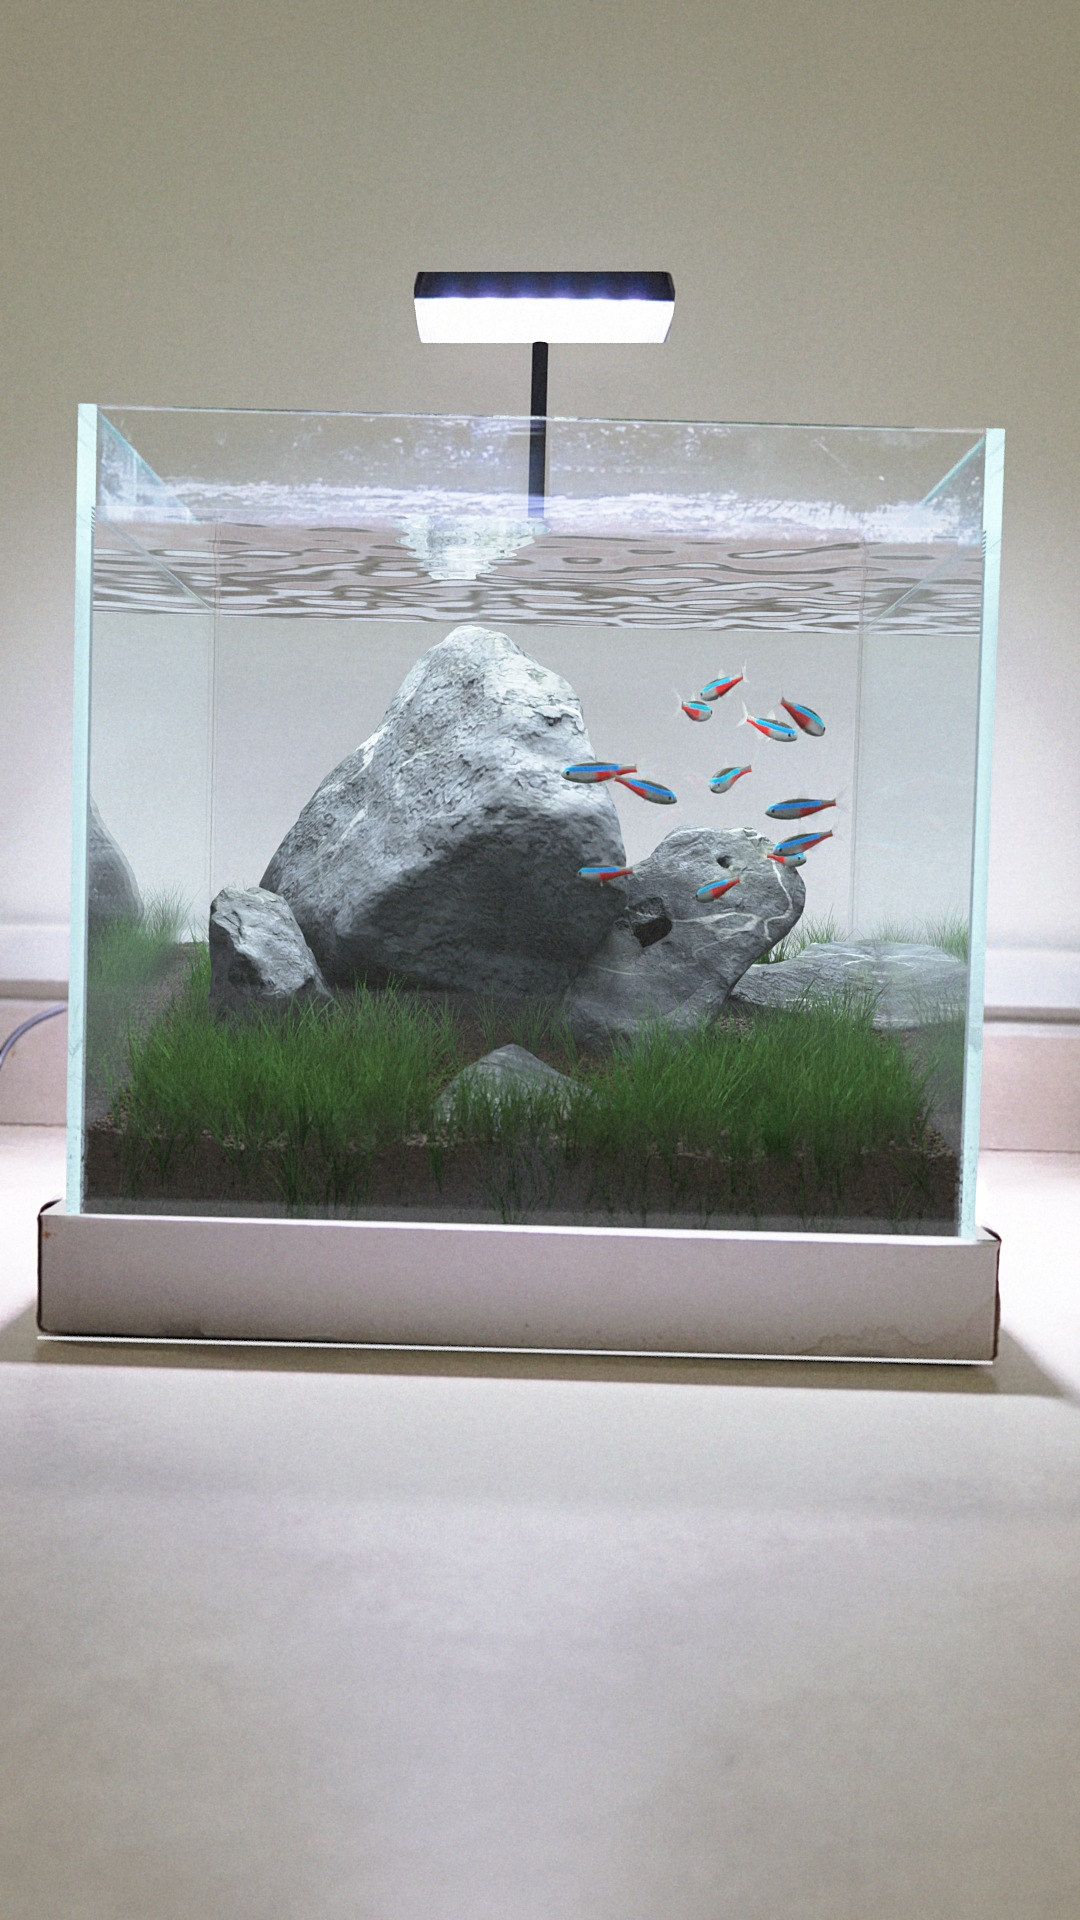
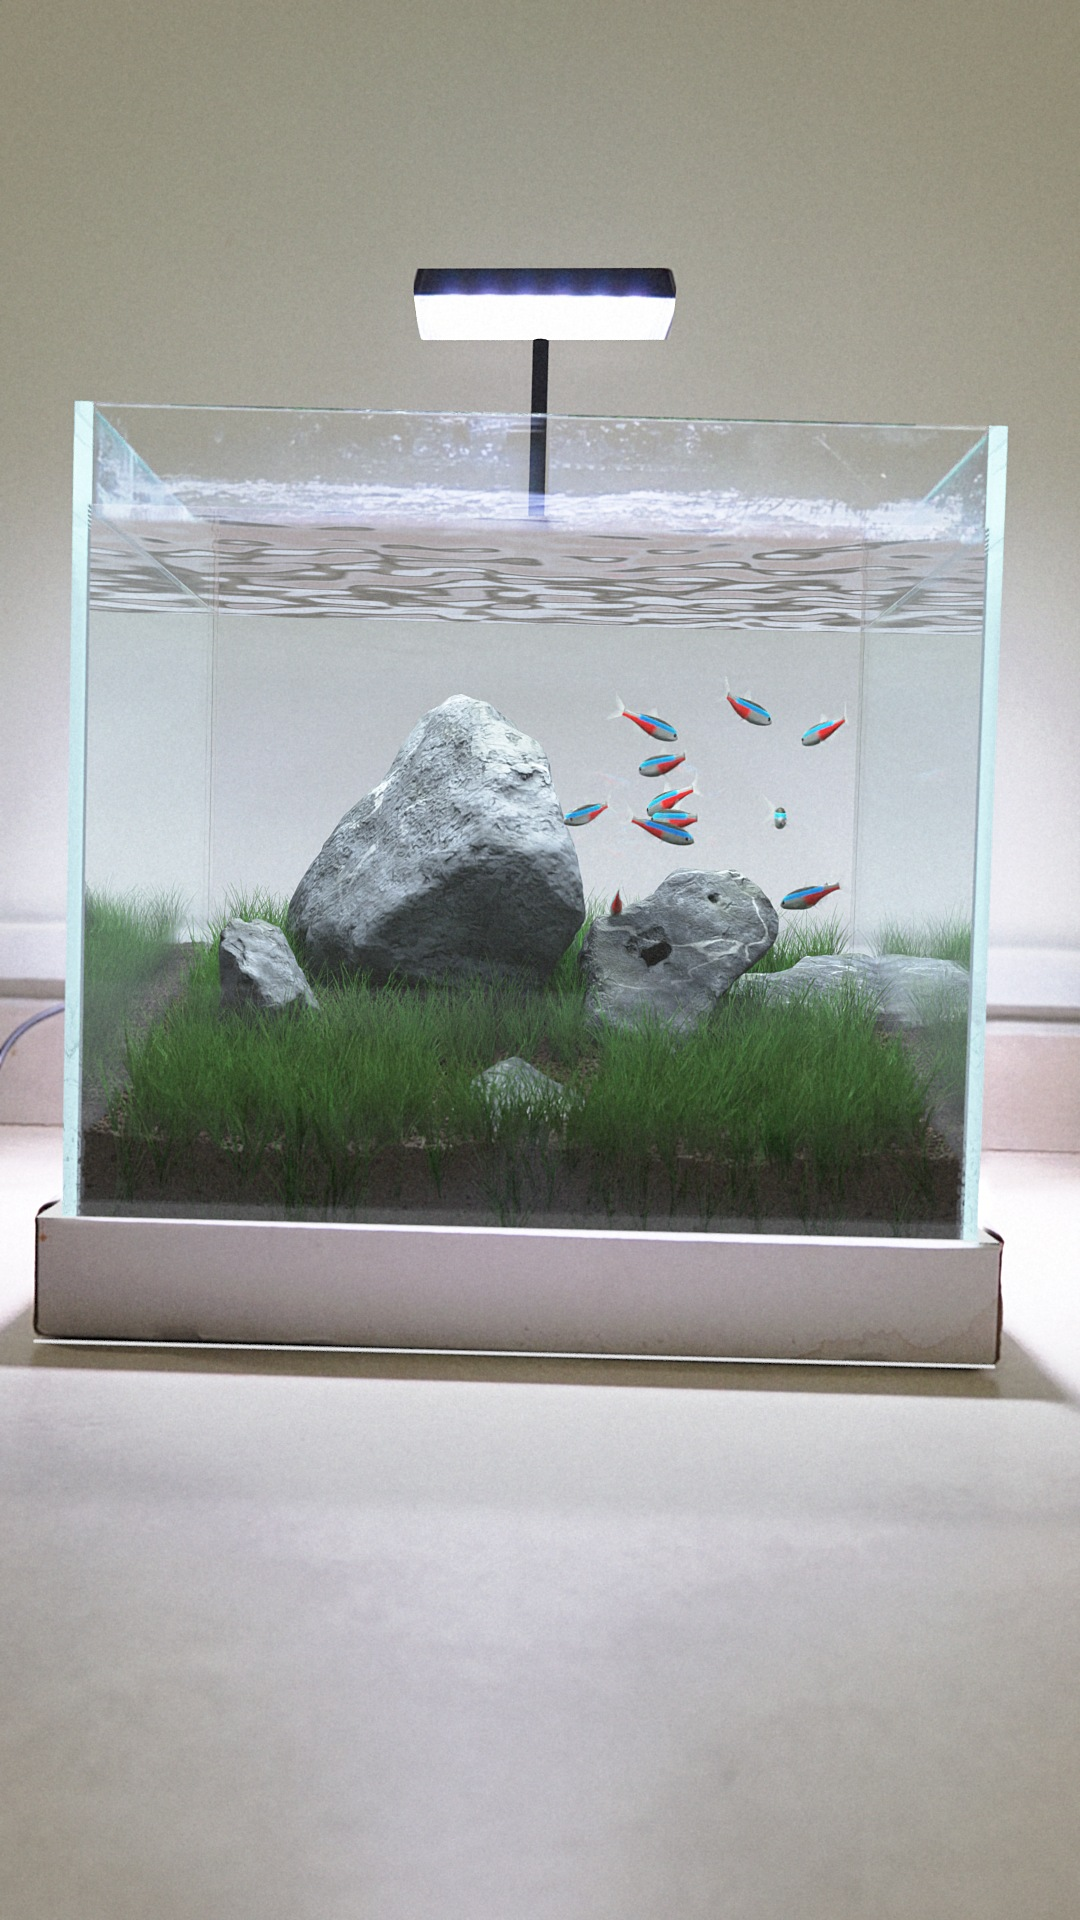
Ten design stills from the settled shoal; README shows all ten

diff --git a/README.md b/README.md
@@ -1,14 +1,14 @@
 # Aquarium Dream
 
-A short film that starts with real phone footage of an empty 30 cm glass cube and a light being switched on, then lets the same tank come to life as five different aquascapes. Everything after the light comes on is a 3D scene built by code and path-traced in Blender through a camera solved from the real footage.
+A short film that starts with real phone footage of an empty 30 cm glass cube and a light being switched on, then lets the same tank come to life as ten different aquascapes, while one shoal of neon tetras swims a single unbroken path through all of them. Everything after the light comes on is a 3D scene built by code and path-traced in Blender through a camera solved from the real footage.
 
 Built with Claude Fable 5.2 as a demonstration that whatever you can imagine, you can build.
 
 **Status:** in progress. `tasks/todo.md` shows where things stand; `review/` holds the stills posted for feedback so far.
 
-![The five designs: Iwagumi, Dutch garden, Forest, Blackwater Amazon, Floating Islands](review/03_design_all_five.jpg)
+![The ten designs in film order: Iwagumi, Dutch garden, Mountain, Forest, Riverbed, Jungle, Blackwater, Lotus pond, Cove, Floating Islands](review/03_design_all.jpg)
 
-Each of these is the same filmed tank. Below the waterline everything is rendered; `review/scores.md` records two independent realism reviews of these stills and what was done about each finding.
+Each of these is the same filmed tank. Below the waterline everything is rendered; `review/scores.md` records the independent realism reviews of the stills, the owner's feedback, and what was done about each point.
 
 ## How it works
 
@@ -16,8 +16,8 @@ Each of these is the same filmed tank. Below the waterline everything is rendere
 2. **Camera.** The tank is a 30 cm cube with 5 mm glass, so its edges in the picture pin down the camera exactly: position, aim and focal length are solved to about 1.4 px (`src/plate/solve_camera.py`).
 3. **Room.** Rays cast from that camera onto known planes give the floor, the wall 1.5 m behind, the card tray and the lamp. The filmed frame, with tank and lamp painted out, is projected back onto that geometry, so the room looks exactly as filmed and shows true parallax when the camera moves (`src/plate/measure_room.py`, `clean_plate.py`, `src/blender/room.py`).
 4. **Tank.** A glass shell with real absorption (clear face-on, green edge-on), a water body with a rippling surface, and ten small LED sources where the real lamp's chips are, so shadows are hard and caustics are crisp (`src/blender/tank.py`).
-5. **Scapes.** Each of the five is one Python module that lays out substrate, scanned stone, generated driftwood and plants, and animals (`src/blender/scapes/`). The kit they share is described in `src/blender/README.md`.
-6. **Life.** Neon tetras follow a seeded shoaling simulation (`src/sim/school.py`); the fish, a red cherry shrimp and a nerite snail are meshes built and posed by code (`src/blender/fish.py`, `shrimp.py`, `snail.py`).
+5. **Scapes.** Each of the ten is one Python module that lays out substrate, scanned stone, generated driftwood and plants, and animals (`src/blender/scapes/`). The kit they share is described in `src/blender/README.md`.
+6. **Life.** One shoal of twelve neon tetras is simulated once for the whole film (`src/sim/school.py`) and posed identically in every scape, so the fish hold their course while one scape dissolves into the next. Each scape declares the open water the shoal may use, and every build reports any fish that comes within 11 mm of scenery; the fish, a red cherry shrimp and a nerite snail are meshes built and posed by code (`src/blender/fish.py`, `shrimp.py`, `snail.py`).
 7. **The awakening.** The water level is animated in the scene; scape materials are invisible above a height that follows the surface, so the first scape appears beneath the rising water (`src/timeline.py`).
 8. **Camera move.** Once the first scape is established the camera eases into a slow push-in and drift, and returns to the filmed position before the end (`src/camera_move.py`).
 9. **Composite.** While the camera is parked, everything the water does not touch comes straight from the filmed frame; only the wet part of the tank is rendered. Renders go through one invertible display transform shared with the plate, then get the phone's sharpening and grain measured from the footage (`src/colour.py`, `src/comp/composite.py`).
